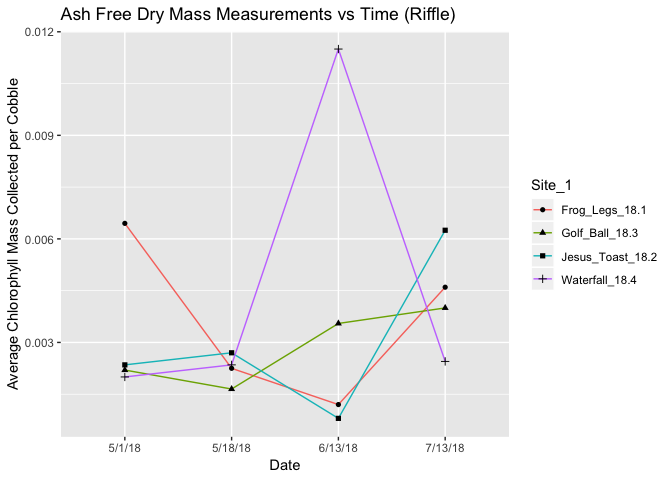
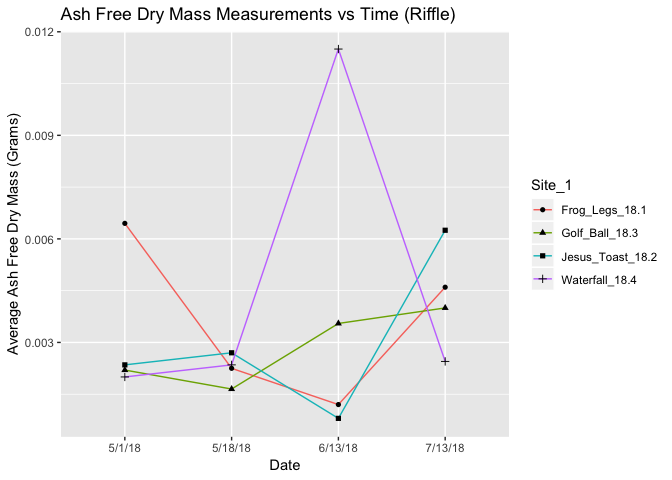
tired

Changed region(s): [[0.0, 0.1562, 0.0312, 0.8125]]

diff --git a/SRF-2018-Code.md b/SRF-2018-Code.md
@@ -191,7 +191,7 @@ AFD_Graph_Pool <- Summarized_AFD_Data_Pool %>%
   ggplot(aes(x = Date_collected, y = mean_diff)) +
   geom_line(aes(group = Site_1, color = Site_1)) +
   geom_point(aes(shape = Site_1)) +
-  labs(x = "Date", y = "Average Chlorophyll Mass Collected per Cobble") +
+  labs(x = "Date", y = "Average Ash Free Dry Mass (Grams)") +
   ggtitle("Ash Free Dry Mass Measurements vs Time (Pool)")
 AFD_Graph_Pool
 ```
@@ -206,7 +206,7 @@ AFD_Graph_Riffle <- Summarized_AFD_Data_Riffle %>%
   ggplot(aes(x = Date_collected, y = mean_diff)) +
   geom_line(aes(group = Site_1, color = Site_1)) +
   geom_point(aes(shape = Site_1)) +
-  labs(x = "Date", y = "Average Chlorophyll Mass Collected per Cobble") +
+  labs(x = "Date", y = "Average Ash Free Dry Mass (Grams)") +
   ggtitle("Ash Free Dry Mass Measurements vs Time (Riffle)")
 AFD_Graph_Riffle
 ```
